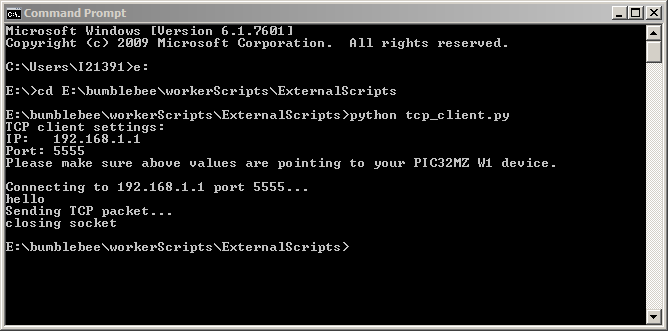
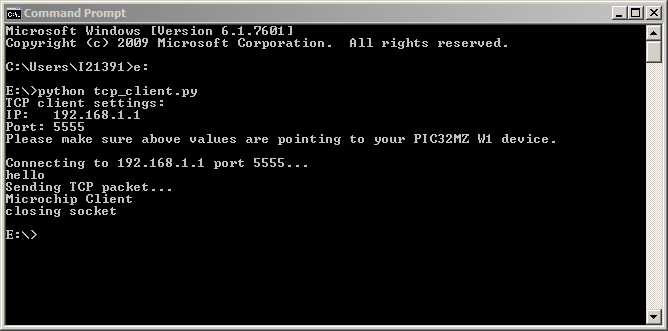
[Apps] Updates to Net and MQTT Service applications

Changed region(s): [[0.0, 0.2417, 0.8383, 0.7553], [0.4192, 0.3927, 0.509, 0.4532], [0.2994, 0.3927, 0.3892, 0.4532]]

diff --git a/apps/tcp_server/readme.md b/apps/tcp_server/readme.md
@@ -16,7 +16,7 @@ This example application acts as a TCP Server to which a TCP Client can connect 
 
 ## Description
 
-This example shows the read and write operation over a TCP Connection in a non-blocking manner. The DUT shall act as a Soft AP and the Station running the TCP Client shall connect to this Soft AP and establish connection with the TCP Server running on the DUT.
+This application demonstrates how a user can start a TCP server on the device which is running in Soft AP Mode. The user would need to configure the Wi-Fi settings for the Soft AP and the port number at which the TCP server would be started. The Application will come up as a Soft AP with the TCP Server running on it. A third-party STA will connect to the Soft AP device. The TCP Client on the third -party STA will then connect to the TCP Server running on the device.
 
 ## Downloading and building the application
 
@@ -62,8 +62,5 @@ To build the application, refer to the following table and open the project usin
 9.	Connect a Laptop tp the Soft AP (with SSID DEMO_AP_SOFTAP) running on the DUT
 10. Start a TCP Client (python script) on laptop, giving the server IP as the IP of the Board, and the port as 5555:
 ![System Console](images/system_console.png)
+![Console](images/tcp_client_console.png)
 
-![Console](images/secured_tcp_client_console.png)
-
-
-Note: The secured tcp connection may require the user to modify WolfSSL component settings in MHC depending on the security settings of the site/ server he is trying to access.

diff --git a/apps/udp_server/readme.md b/apps/udp_server/readme.md
@@ -7,7 +7,7 @@ has_toc: false
 nav_order: 1
 
 family: PIC32MZW1
-function: UD{ Server
+function: UDP Server
 ---
 
 # UDP Server 
@@ -16,7 +16,7 @@ This example application acts as a UDP Server to which a UDP Client can connect 
 
 ## Description
 
-This example shows the read and write operation over a UDP Connection in a non-blocking manner. The DUT (running the UDP Server) and the Another Entity running the UDP Client shall connect to a Home AP and UDP Client shall exchange data with the UDP Server running on the DUT.
+This application demonstrates how a user can start a UDP server on the device. The user would need to configure the Wi-Fi credentials for the Home AP and the port number at which the UDP server should be started. Any standard UDP client can be used to connect to the device which is operating as a UDP server.
 
 ## Downloading and building the application
 

diff --git a/apps/udp_client/readme.md b/apps/udp_client/readme.md
@@ -16,7 +16,7 @@ This example application acts as a UDP Client which connects to a UDP Server and
 
 ## Description
 
-This example shows the read and write operation over a UDP Connection in a non-blocking manner. The DUT (running the UDP Client) and the other entity running the UDP Server shall connect to a Home AP and UDP Server shall exchange data with the UDP Client running on the DUT.
+This application demonstrates how a user can use a UDP client to connect to a UDP server. The user would need to configure the Wi-Fi credentials for the Home AP and the UDP server details. The default application will send a string to the UDP server. Any standard UDP server can be used to enable the device to connect as a UDP client.
 
 ## Downloading and building the application
 
